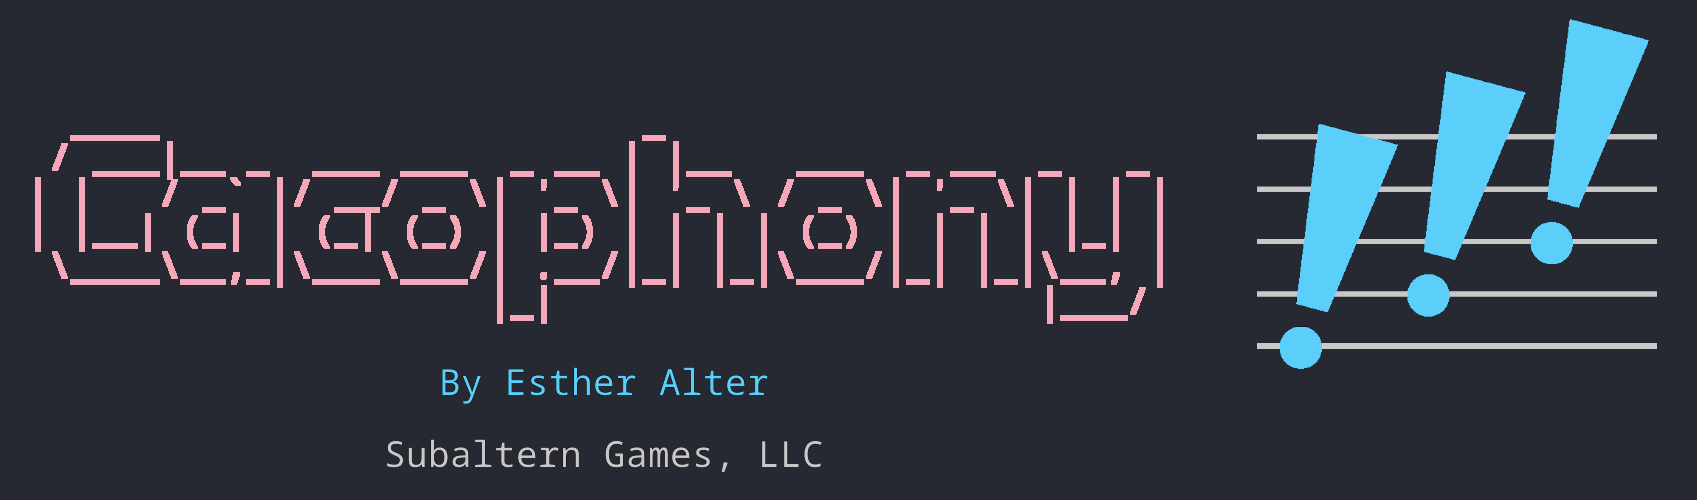
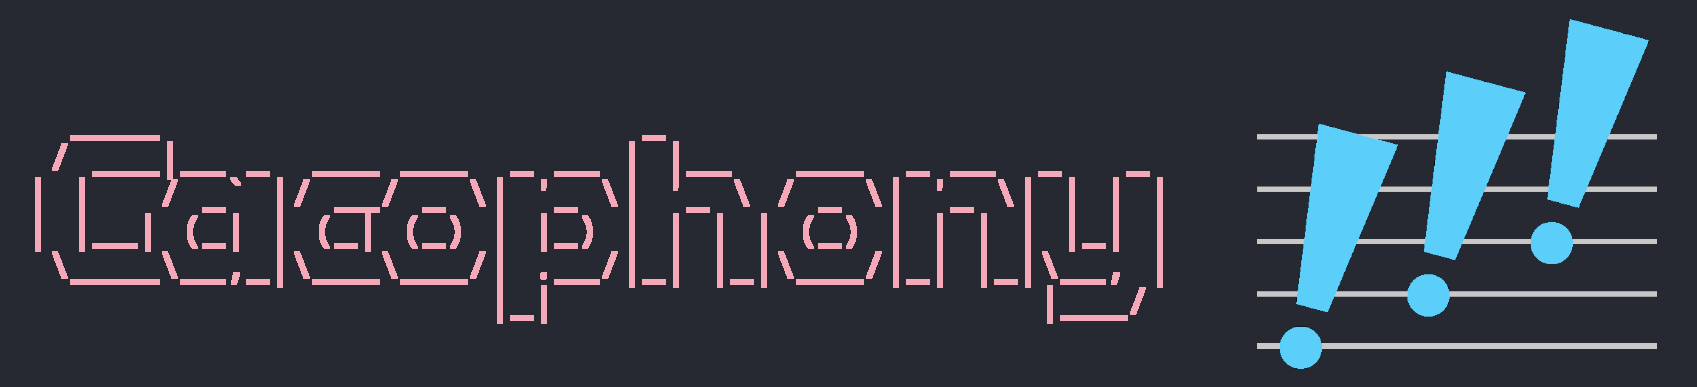
ok!

diff --git a/html/index.html b/html/index.html
@@ -14,9 +14,16 @@
 </div>
 
 <div class="main">
-    <p><img src="images/banner.png" alt="Cacophony!" width="100%"></p>
-    <p><b>Cacophony is a minimalist and ergonomic MIDI sequencer.</b> It's minimalist in that it doesn't have a lot of functionality MIDI sequencers have. It's ergonomic in that there is no mouse input and a very clean interface, allowing you to juggle less inputs and avoid awkward mouse motions. <b>Cacophony is a proof-of-concept of a different way of making music.</b></p>
-    <p><img src="images/screenshot.jpg" alt="A screenshot of Cacophony" width="100%"></p>
+    <div class="banner"><img src="images/banner.png" alt="Cacophony!" width="100%"></div>
+    <div class="summary">
+        <div class="summary_image">
+            <img src="images/screenshot.jpg" alt="A screenshot of Cacophony">
+        </div>
+        <div class="summary_text">
+            <p><b>Cacophony is a minimalist and ergonomic MIDI sequencer.</b> It's minimalist in that it doesn't have a lot of functionality MIDI sequencers have. It's ergonomic in that there is no mouse input and a very clean interface, allowing you to juggle less inputs and avoid awkward mouse motions. <b>Cacophony is a proof-of-concept of a different way of making music.</b></p>
+        </div>
+    </div>
+    <div class="download"><button class="button"><div class="subtitle">Download</div>Linux</button>&nbsp;&nbsp;<button class="button"><div class="subtitle">Download</div>MacOS</button>&nbsp;&nbsp;<button class="button"><div class="subtitle">Download</div>Windows</button></div> 
     <h1>Features</h1>
     <p>
         <ul>

diff --git a/html/style.css b/html/style.css
@@ -64,3 +64,56 @@ code {
     margin-right: 18%;
     padding: 0px 10px;
 }
+
+.main .banner {
+    text-align: center;
+}
+
+.main .banner img {
+    width: 100%;
+}
+
+.main .summary {
+    display: flex;
+    align-items: center;
+    justify-content: center
+}
+
+.main .summary_text {
+    max-width: 60%;
+}
+
+
+.main .summary_image {
+    flex-basis: 40%;
+    max-width: 40%;
+    padding-right: 18px;
+    padding-bottom: 18px;
+}
+
+.main .summary_image img {
+    width: 100%;
+}
+
+.main .download {
+    text-align: center;
+}
+
+.button {
+    background-color: #5bcefa; /* Green */
+    border: none;
+    color: #272932;
+    padding: 15px 32px;
+    text-align: left;
+    text-decoration: none;
+    display: inline-block;
+    font-size: 24px;
+}
+
+.button a {
+    color: #272932;
+}
+
+.button .subtitle {
+    font-size: 12px;
+  }
